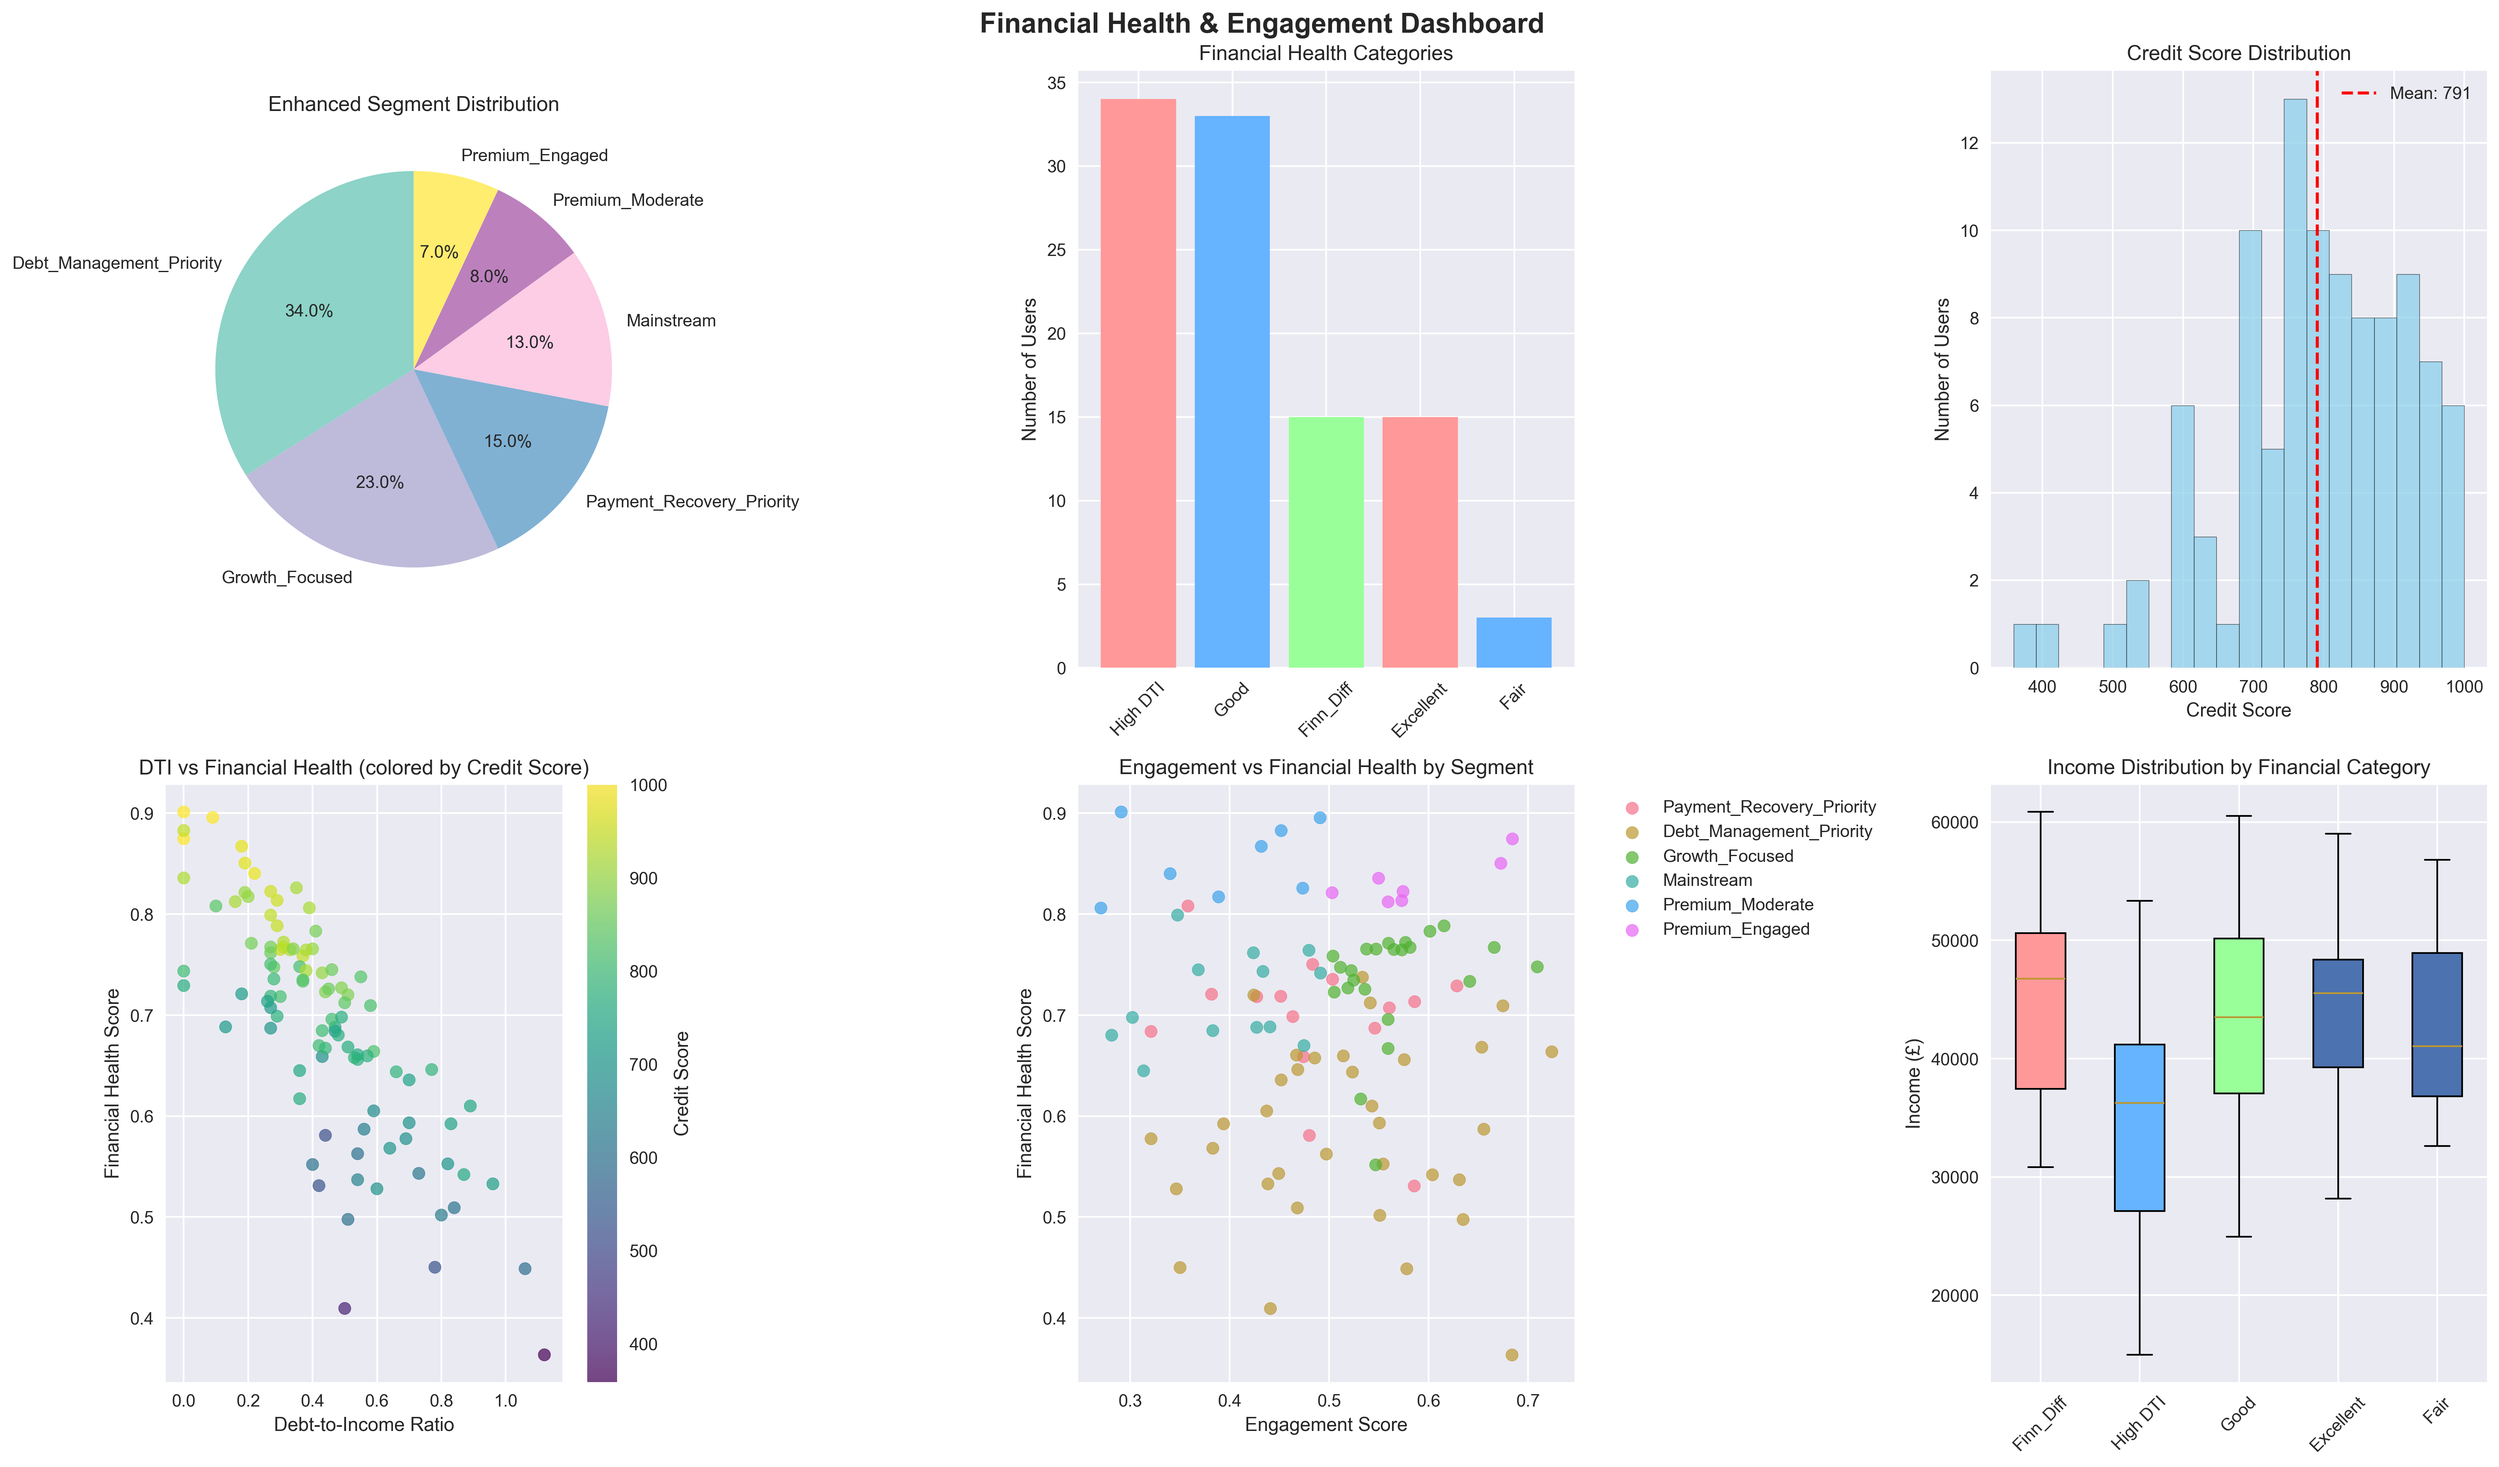
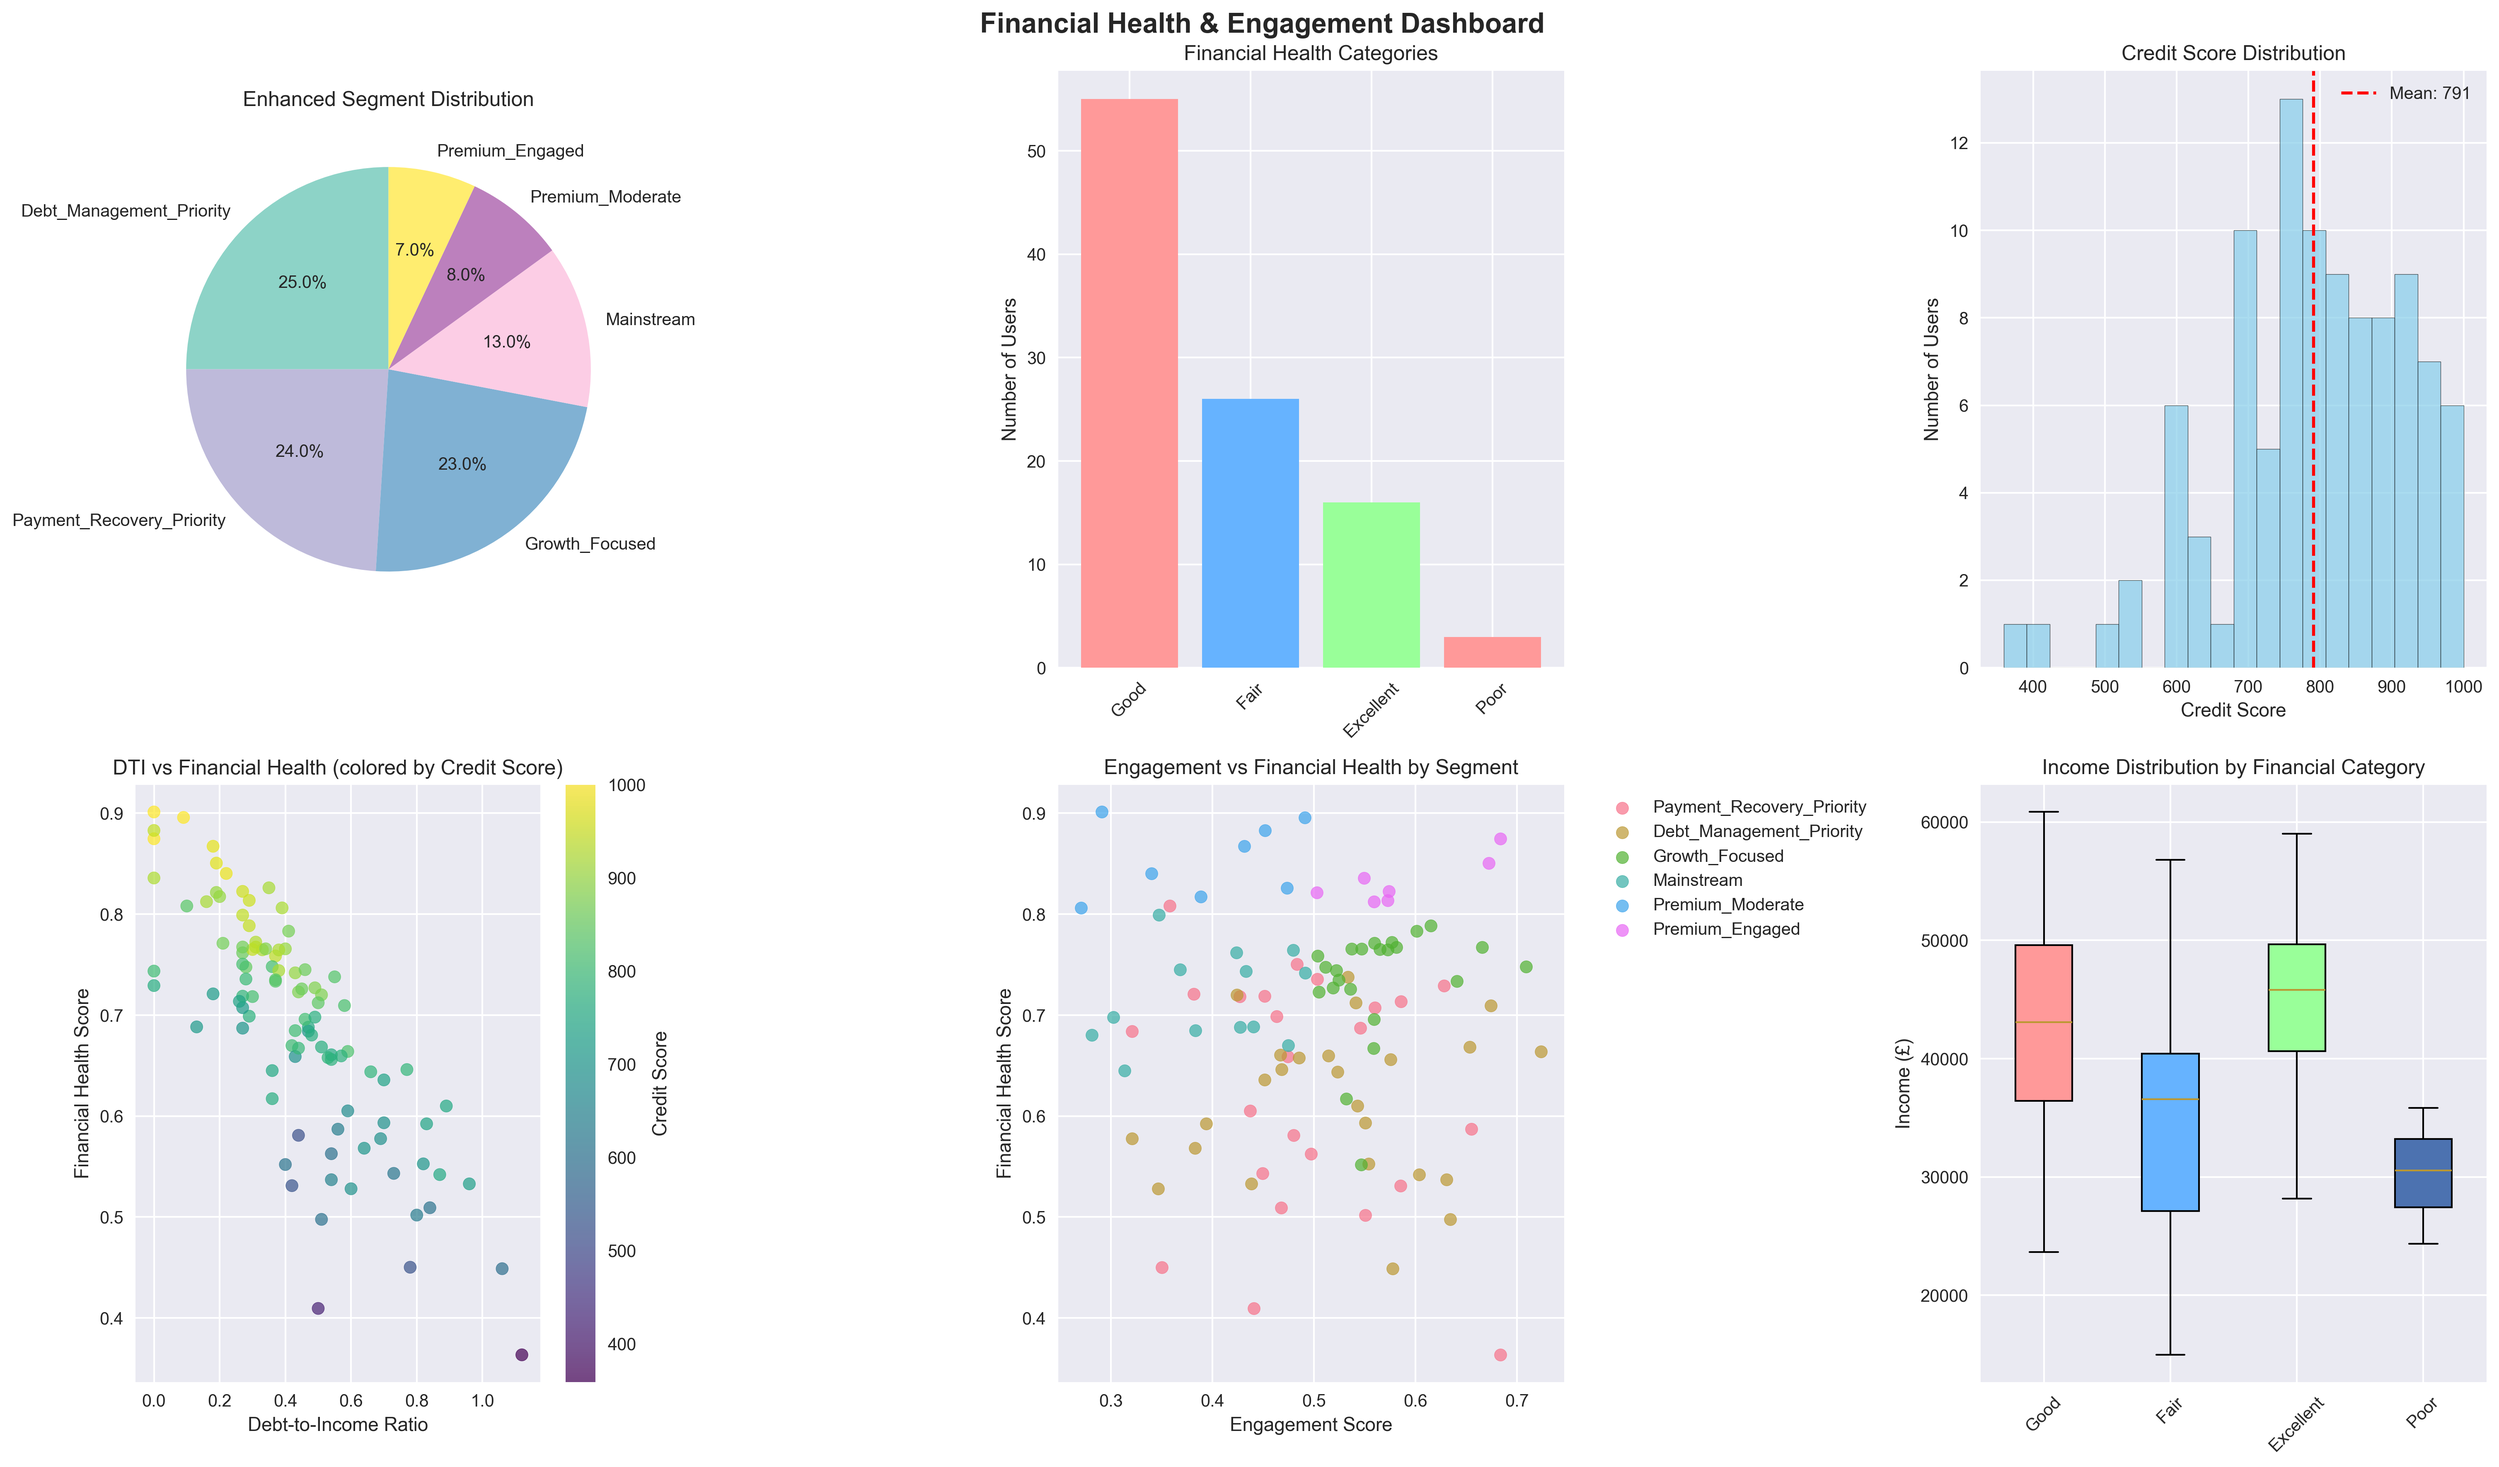
Refactor dti and missed payments out of categorize_financial_health to perform_enhanced_segmentation

diff --git a/enhanced_financial_recommender.py b/enhanced_financial_recommender.py
@@ -67,14 +67,14 @@ class FinanciallyAwareRecommender:
         # ABSOLUTE THRESHOLDS with High DTI taking precedence
         def categorize_financial_health(row):
             score = row['financial_health_score']
-            dti_ratio = row['dti_ratio']
+            # dti_ratio = row['dti_ratio']
             
             # High DTI takes precedence over other categories
-            if dti_ratio >= 0.5:
-                return "High DTI"   
-            elif row['missed_payments'] >= 2:
-                return "Finn_Diff"
-            elif score >= 0.8:
+            # if dti_ratio >= 0.5:
+            #     return "High DTI"   
+            # elif row['missed_payments'] >= 2:
+            #     return "Finn_Diff"
+            if score >= 0.8:
                 return "Excellent"      # Strong across all metrics
             elif score >= 0.65:
                 return "Good"           # Above average financial health
@@ -166,14 +166,16 @@ class FinanciallyAwareRecommender:
         def assign_segment_name(row):
             engagement = row['engagement_score']
             financial_cat = row['financial_category']
+            dti_ratio = row['dti_ratio']
+            missed_payments = row['missed_payments']
             
-            # PRIORITY 1: High DTI takes priority - these users need debt management regardless of engagement
-            if financial_cat == "High DTI":
-                return "Debt_Management_Priority"
-            
-            # PRIORITY 2: Finn_Diff takes priority - these users need payment management support
-            elif financial_cat == "Finn_Diff":
+            # PRIORITY 1: Finn_Diff takes highest priority - payment issues need immediate attention
+            if missed_payments >= 2:
                 return "Payment_Recovery_Priority"
+            
+            # PRIORITY 2: High DTI takes priority - these users need debt management regardless of engagement
+            elif dti_ratio >= 0.5:
+                return "Debt_Management_Priority"
             
             elif engagement > 0.5:
                 if financial_cat == "Excellent":
@@ -626,22 +628,9 @@ class FinanciallyAwareRecommender:
             for content_type in content_types:
                 base_score = user_prefs[content_type]
                 
-                # Apply financial relevance multipliers
-                # HIGH DTI PRIORITY - Focus on debt reduction strategies
-                if financial_cat == "High DTI":
-                    if content_type == 'improve':
-                        base_score *= 3.0  # Highest priority - debt management strategies
-                    elif content_type == 'insights':
-                        base_score *= 2.5  # Financial insights for debt reduction
-                    elif content_type == 'loans':
-                        base_score *= 0.2  # Strongly discourage more loans
-                    elif content_type == 'credit_cards':
-                        base_score *= 0.1  # Strongly discourage credit cards
-                    elif content_type == 'protect':
-                        base_score *= 0.3  # Lower priority until debt managed
-                
-                # FINN_DIFF PRIORITY - Focus on payment management and credit repair
-                elif financial_cat == "Finn_Diff":
+                # Apply financial relevance multipliers based on direct metrics
+                # PRIORITY 1: FINN_DIFF (Missed Payments >= 2) - Focus on payment management and credit repair
+                if missed_payments >= 2:
                     if content_type == 'improve':
                         base_score *= 2.8  # High priority - payment management and credit repair
                     elif content_type == 'insights':
@@ -652,6 +641,19 @@ class FinanciallyAwareRecommender:
                         base_score *= 0.4  # Discourage loans but not as severely as credit cards
                     elif content_type == 'protect':
                         base_score *= 1.2  # Some protection content may help with budgeting
+                
+                # PRIORITY 2: HIGH DTI (>= 50%) - Focus on debt reduction strategies
+                elif dti_ratio >= 0.5:
+                    if content_type == 'improve':
+                        base_score *= 3.0  # Highest priority - debt management strategies
+                    elif content_type == 'insights':
+                        base_score *= 2.5  # Financial insights for debt reduction
+                    elif content_type == 'loans':
+                        base_score *= 0.2  # Strongly discourage more loans
+                    elif content_type == 'credit_cards':
+                        base_score *= 0.1  # Strongly discourage credit cards
+                    elif content_type == 'protect':
+                        base_score *= 0.3  # Lower priority until debt managed
                 elif content_type == 'improve' and credit_score < 650:
                     base_score *= 2.0  # Credit improvement is high priority
                 elif content_type == 'protect' and financial_cat == "Excellent":
@@ -698,8 +700,12 @@ class FinanciallyAwareRecommender:
         """Identify financial priorities for a user"""
         priorities = []
         
-        # High DTI (≥50%) is the top priority - UNIFORM THRESHOLD
-        if user_data['dti_ratio'] >= 0.50:
+        # PRIORITY 1: Payment issues take highest priority
+        if user_data['missed_payments'] >= 2:
+            priorities.append("URGENT_PAYMENT_MANAGEMENT")
+            
+        # PRIORITY 2: High DTI (≥50%) is critical priority
+        elif user_data['dti_ratio'] >= 0.50:
             priorities.append("URGENT_DTI_REDUCTION")
         
         if user_data['credit_score'] < 650:
